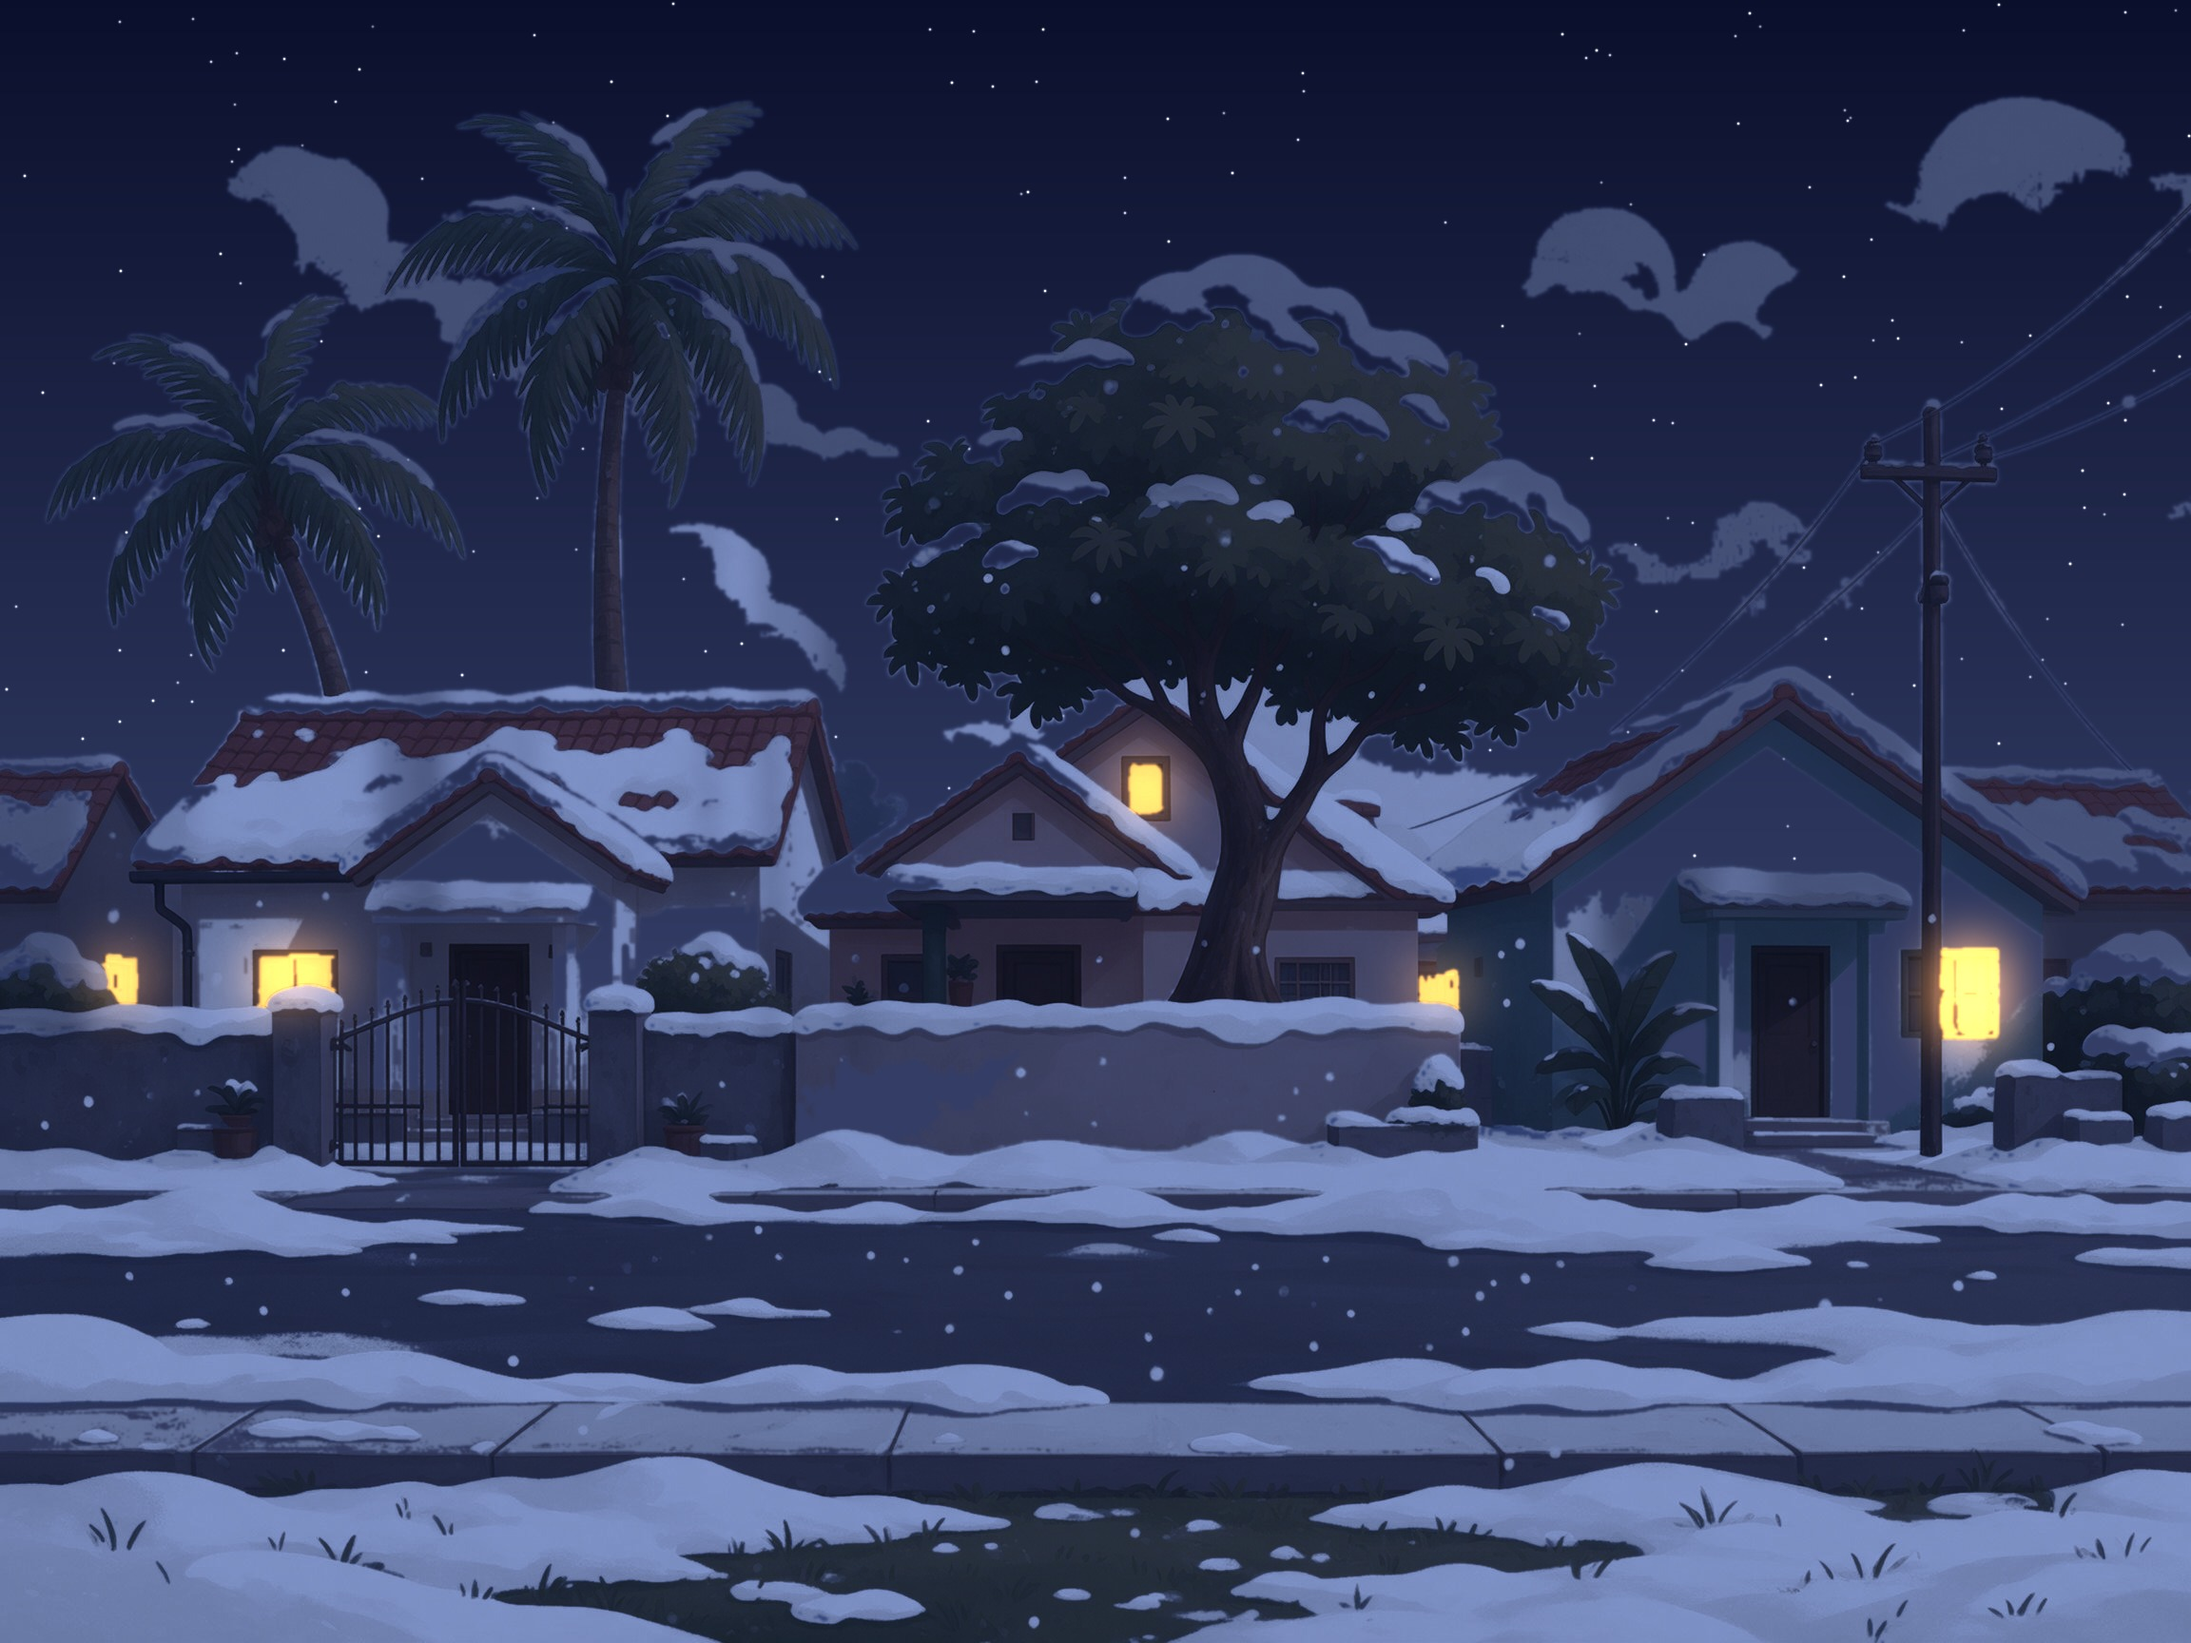
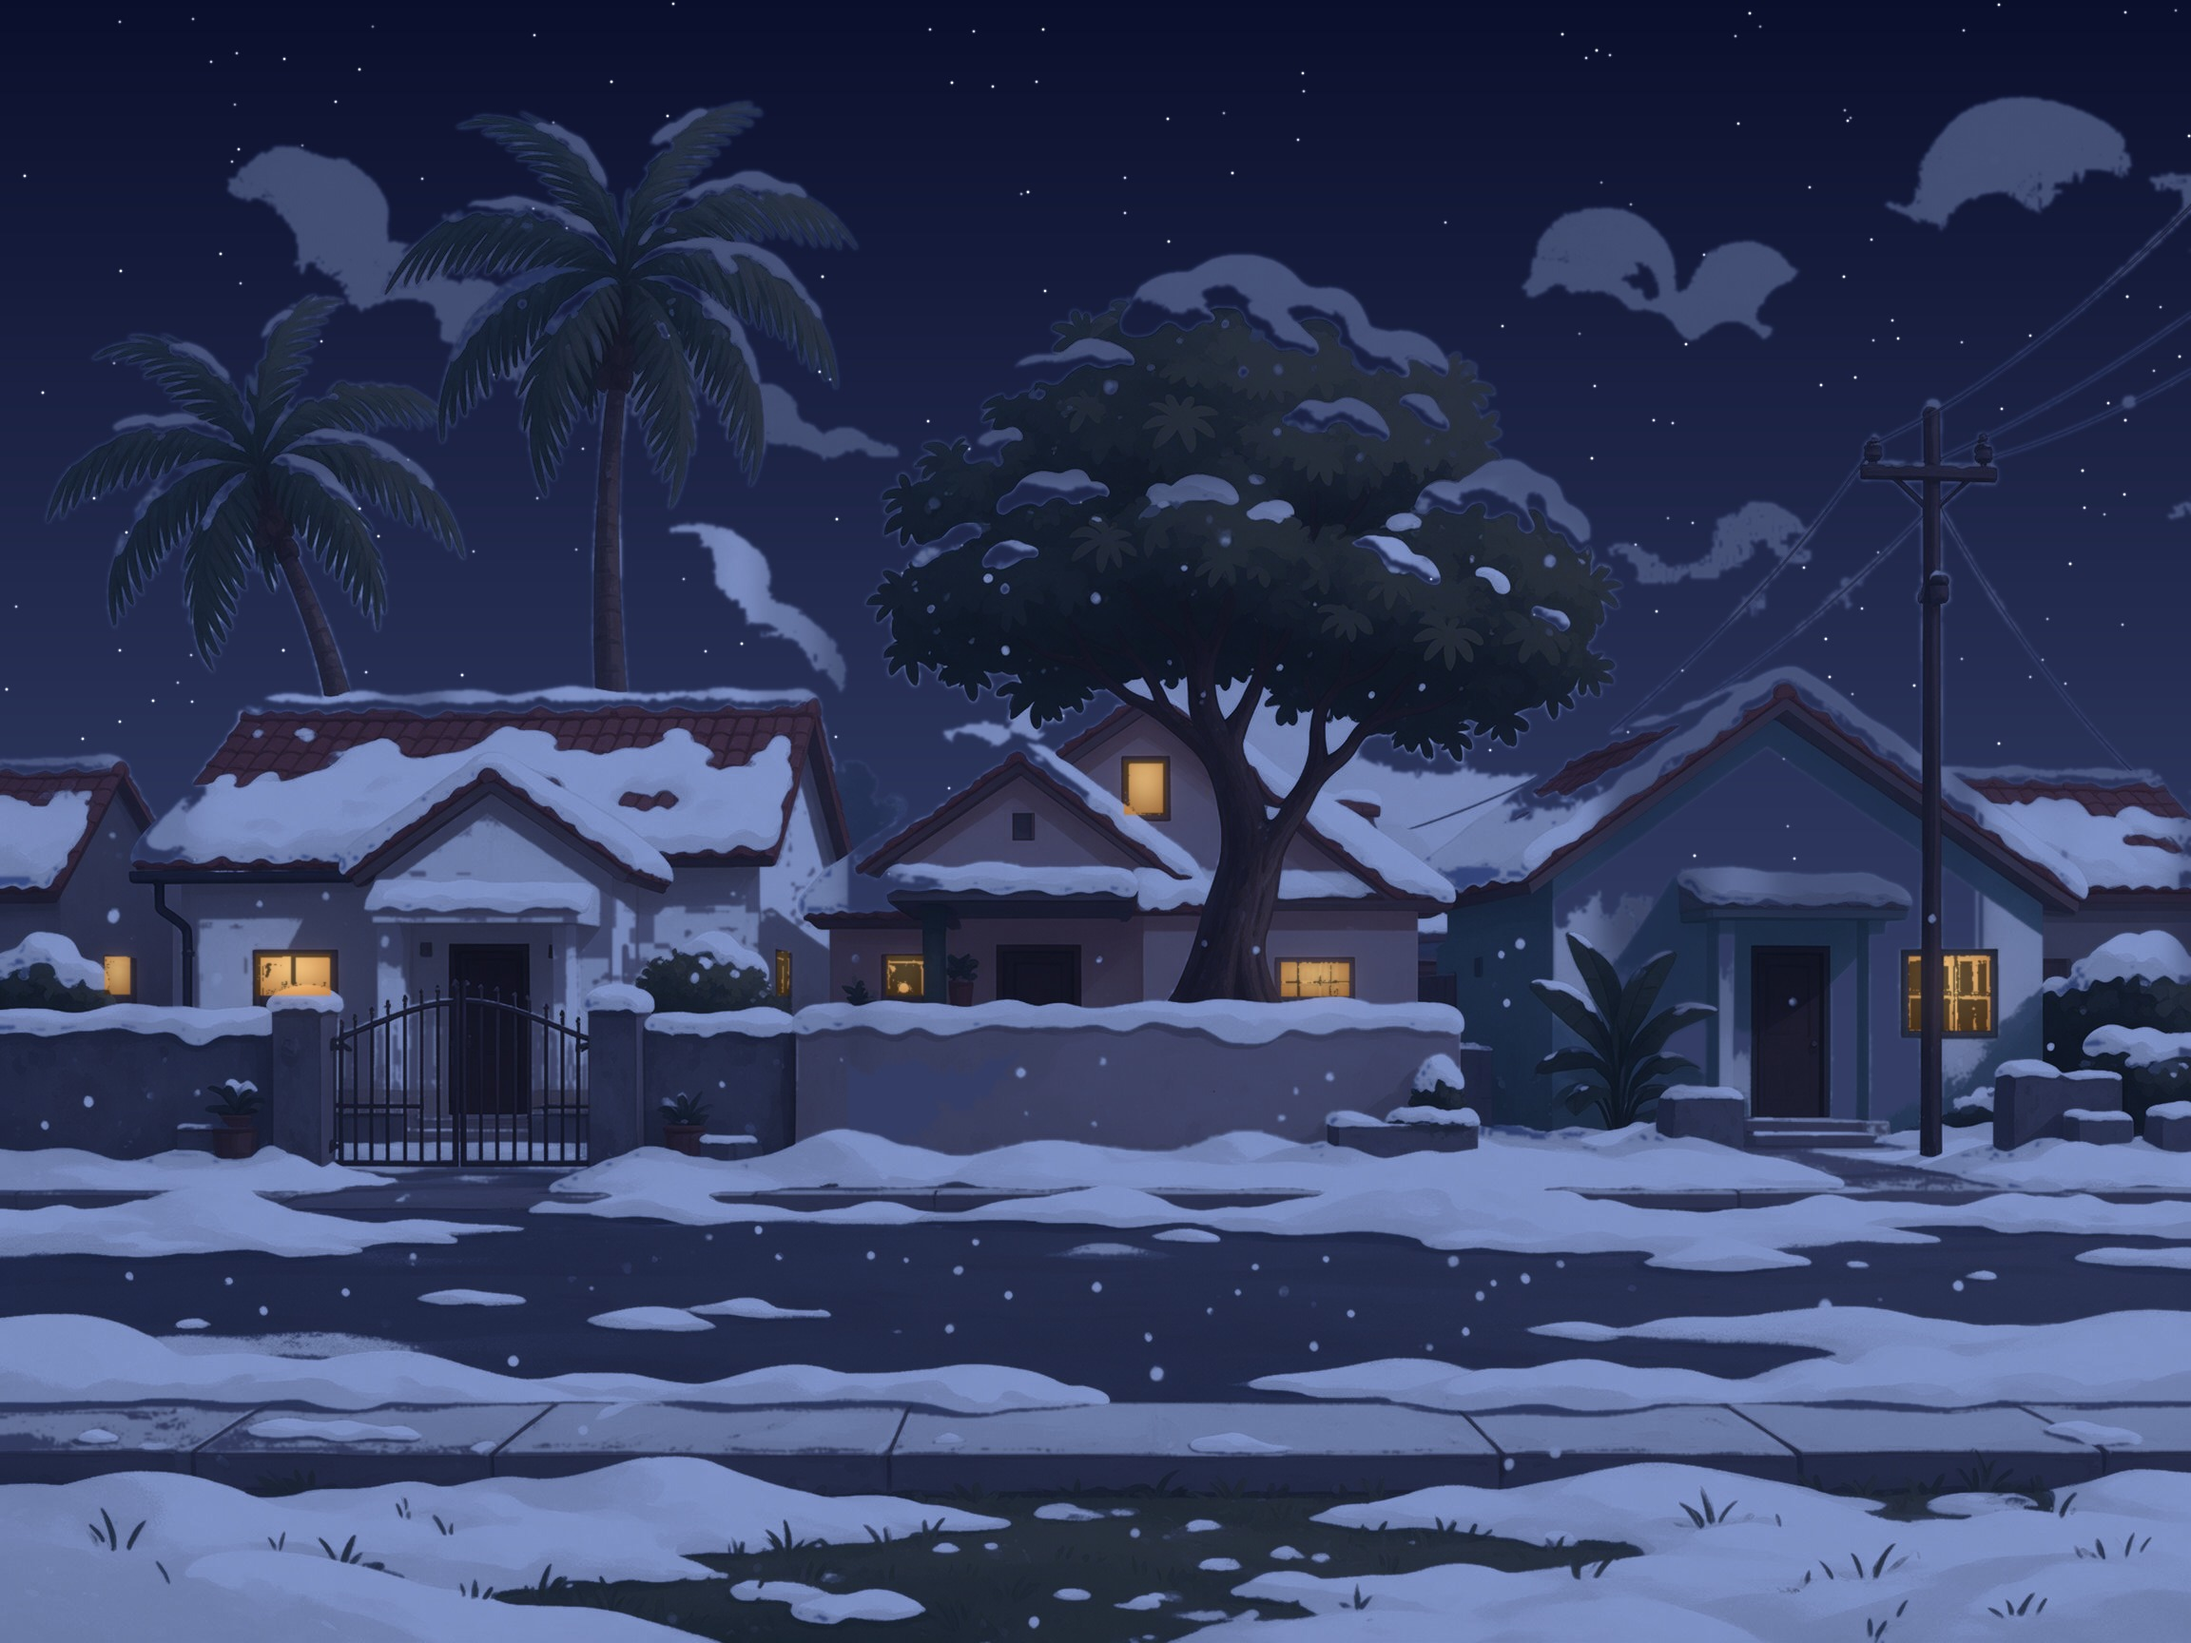
Window night pictures: light the real window panes, not flat yellow blocks
The night light sat on whatever looked dark and window-ish, so a gate, a wall and a
carport were lit and some panes were missed; the spring picture also showed sky and
stars through a gable under a roof. Each pane's position is now read off its day
picture (nightfix/panes.json): soft warm glass with the frame kept, anything in
front of it (gate bars, leaves, a pole) left dark, and a gentle glow on the wall.
Nothing else moved: above the roofs 0.00-1.31 % of pixels changed per picture.
Checked with the window (8), season (5) and room-change (6) suites.

diff --git a/THIRD_PARTY_NOTICES.md b/THIRD_PARTY_NOTICES.md
@@ -24,8 +24,8 @@ Every other sound in the app is generated in code with the Web Audio API.
 | `assets/room/sway-snow.webp`, `sway-spring.webp`, `sway-summer.webp`, `sway-dry.webp` | Made by the project author with a script from the season day pictures below: a small mask that says which pixels are tree, palm or low plant, so the wind shader can move only those. Data, not a picture | Derived from the day pictures; same terms |
 | `assets/room/window-day.jpg` (and the smaller `window-day.webp` the app loads) | Generated by the project author with the AI model Seedream 5.0 pro (`dola-seedream-5-0-pro-260628`, BytePlus), reached through an OpenAI-compatible API gateway, from a written description of a quiet 1990s Indonesian housing-complex street seen side-on across the road, in a semi-cartoon style. The prompt asked for no people, text, logos, signs or watermark, and the visible AI-generated mark was switched off in the API request | BytePlus's General Terms for AI Services (section 2.1): BytePlus's customer owns the Output and BytePlus claims no ownership. The model was reached through an API gateway, not a direct BytePlus account. The file still carries the C2PA content credentials BytePlus embeds, unchanged |
 | `assets/room/window-snow-day.jpg`, `window-spring-day.jpg`, `window-summer-day.jpg`, `window-dry-day.jpg` (and their `.webp` copies) | Generated by the project author with the AI model Seedream 5.0 pro (`dola-seedream-5-0-pro-260628`, BytePlus), reached through an OpenAI-compatible API gateway, with the visible AI watermark switched off, from the same street description as `window-day.jpg` plus one line per season (the prompts are in the app's HOW IT WORKS panel). No people, vehicles, logos or text. Used here under the provider's terms, which assign the outputs to the user. |
-| `assets/room/window-snow-night.jpg`, `window-spring-night.jpg`, `window-summer-night.jpg`, `window-dry-night.jpg` (and `.webp`) | Made by the project author from the season day pictures above with a small image script (night sky and stars drawn in, the scene recoloured to moonlight, window panes lit). Same terms as their day pictures. |
-| `assets/room/window-night.jpg` (and `window-night.webp`) | Made by the project author from `window-day.jpg` with a small image script (night sky and stars drawn in, the scene recoloured to moonlight, the house windows and a street lamp lit), so every house and tree stays where it is in the day picture | Derived from the day picture above; same terms. As an edited copy it carries no C2PA credentials of its own |
+| `assets/room/window-snow-night.jpg`, `window-spring-night.jpg`, `window-summer-night.jpg`, `window-dry-night.jpg` (and `.webp`) | Made by the project author from the season day pictures above with a small image script (night sky and stars drawn in, the scene recoloured to moonlight). On 6 Oct 2026 the window light was redone: only the real window panes are lit (their positions read off the day pictures), with the frames kept, and the sky no longer shows through a gable. Same terms as their day pictures. |
+| `assets/room/window-night.jpg` (and `window-night.webp`) | Made by the project author from `window-day.jpg` with a small image script (night sky and stars drawn in, the scene recoloured to moonlight, the house windows and a street lamp lit), so every house and tree stays where it is in the day picture. On 6 Oct 2026 the window light was redone as lit panes with their frames kept; nothing else changed | Derived from the day picture above; same terms. As an edited copy it carries no C2PA credentials of its own |
 | `assets/room/painting-sawah.jpg`, `assets/room/painting-gunung.jpg` (and the `.webp` copies the app loads) | Generated by the project author with the AI model Seedream 5.0 pro (`dola-seedream-5-0-pro-260628`, BytePlus), reached through an OpenAI-compatible API gateway, from written descriptions of three semi-cartoon paintings: Indonesian rice terraces, a Javanese volcano over fields, and tropical flowers in a vase. The prompt asked for no frame, text, signature, logos, people or watermark, and the visible AI-generated mark was switched off in the API request | BytePlus's General Terms for AI Services (section 2.1): BytePlus's customer owns the Output and BytePlus claims no ownership. The model was reached through an API gateway, not a direct BytePlus account. The files still carry the C2PA content credentials BytePlus embeds, unchanged |
 
 `three.module.min.js` has one change from the published build: its import path points to `three.core.min.js` instead of `three.core.js`, so the minified files load each other. The files in `assets/vendor/addons/` are copied unchanged except that `from 'three'` became a relative path to `three.module.min.js`, because the page has no import map.

diff --git a/devpost/checklist.md b/devpost/checklist.md
@@ -85,6 +85,7 @@ Build mode: fast (chosen by the learner at the start of `5-build`)
   - Seasons (3 Oct 2026): SEASON row (AUTO by month), four Seedream day pictures plus script-made nights, snow/petals/leaves, summer heat shimmer, season ambience, RAIN switch: done and checked. Learner check: look at each season by day and night.
   - Tape eject and season-loading fix (3 Oct 2026, learner request): in the room, STOP / leaving BACK ON IT / BACK TO THE ROOM with a tape inside make the camera pull back, EJECT shows on the TV, the cassette slides out and lifts away with an eject sound, then the camera returns into the TV (or to the room). The loading screen no longer comes back when a season's pictures load later (the progress listener now runs for the first load only). Checked: 5 eject checks.
   - Procedural bookshelf (5 Oct 2026, learner request: "ada buku yang melayang dengan posisi miring/menyender" and a different arrangement every time someone opens the site): done and checked, waiting for the learner's approval before filming. `js/books.js` places the books from a seed (new on every load; `?books=<number or word>` fixes it), and a leaning book now always rests on a standing neighbour that has a book behind it. Checked: 30,004 seeds against a separate description of the shelf (0 floating, 0 overlapping, 0 unbacked, 0 unstable), 6 page loads in headless Edge gave 6 different shelves, close-ups of 18 leaning books all touch. The learner approves one `?books=` number to use for every take of the demo video.
+  - Window night light fixed (6 Oct 2026, learner request, after seeing the assets up close): the night pictures lit flat yellow blocks that sometimes sat on a gate or a wall instead of a window, and in the spring picture the sky showed through a gable under a roof. Each window pane's position was read off its day picture, and the night light is now drawn only there, with the frame and anything in front of it (gate bars, leaves, a pole) kept dark, plus a soft glow on the wall. Nothing else in the pictures moved: above the roofs 0.00-1.31 % of pixels changed. Checked with the window (8), season (5) and room-change (6) suites.
   - Alive room round (5 Oct 2026, learner requests): wind through the trees by day, fireflies on calm nights outside winter, water beads on the glass in the rain (beads halved after the learner's first look), new outdoor sound scenes and the recorded rain (DonRain, Pixabay), and Simon the sleeping cat with his name on hover: done and checked, see `spec.md`. Learner check: look at each, and listen to the rain and the outdoor sound. The sound has been measured but not heard by the builder.
   - Still to do: the learner tries the new screen change (speed of the zoom and of the bend, how the curve looks); README; the mockup page stays in `devpost/` as the design record. VHS effects kept inside the screen, still on touch screens and with reduced motion. The two window pictures (day and night) are already in `assets/room/`, generated with Seedream 5.0 pro in a semi-cartoon style; the frame takes the player's own photo (no photo is bundled). AI art must have no logos or watermarks and is credited in the README (slice 5: name the model and the gateway, and keep the C2PA data in the files).
 - [ ] Final review complete — feedback resolved and learner confirms ready to ship
